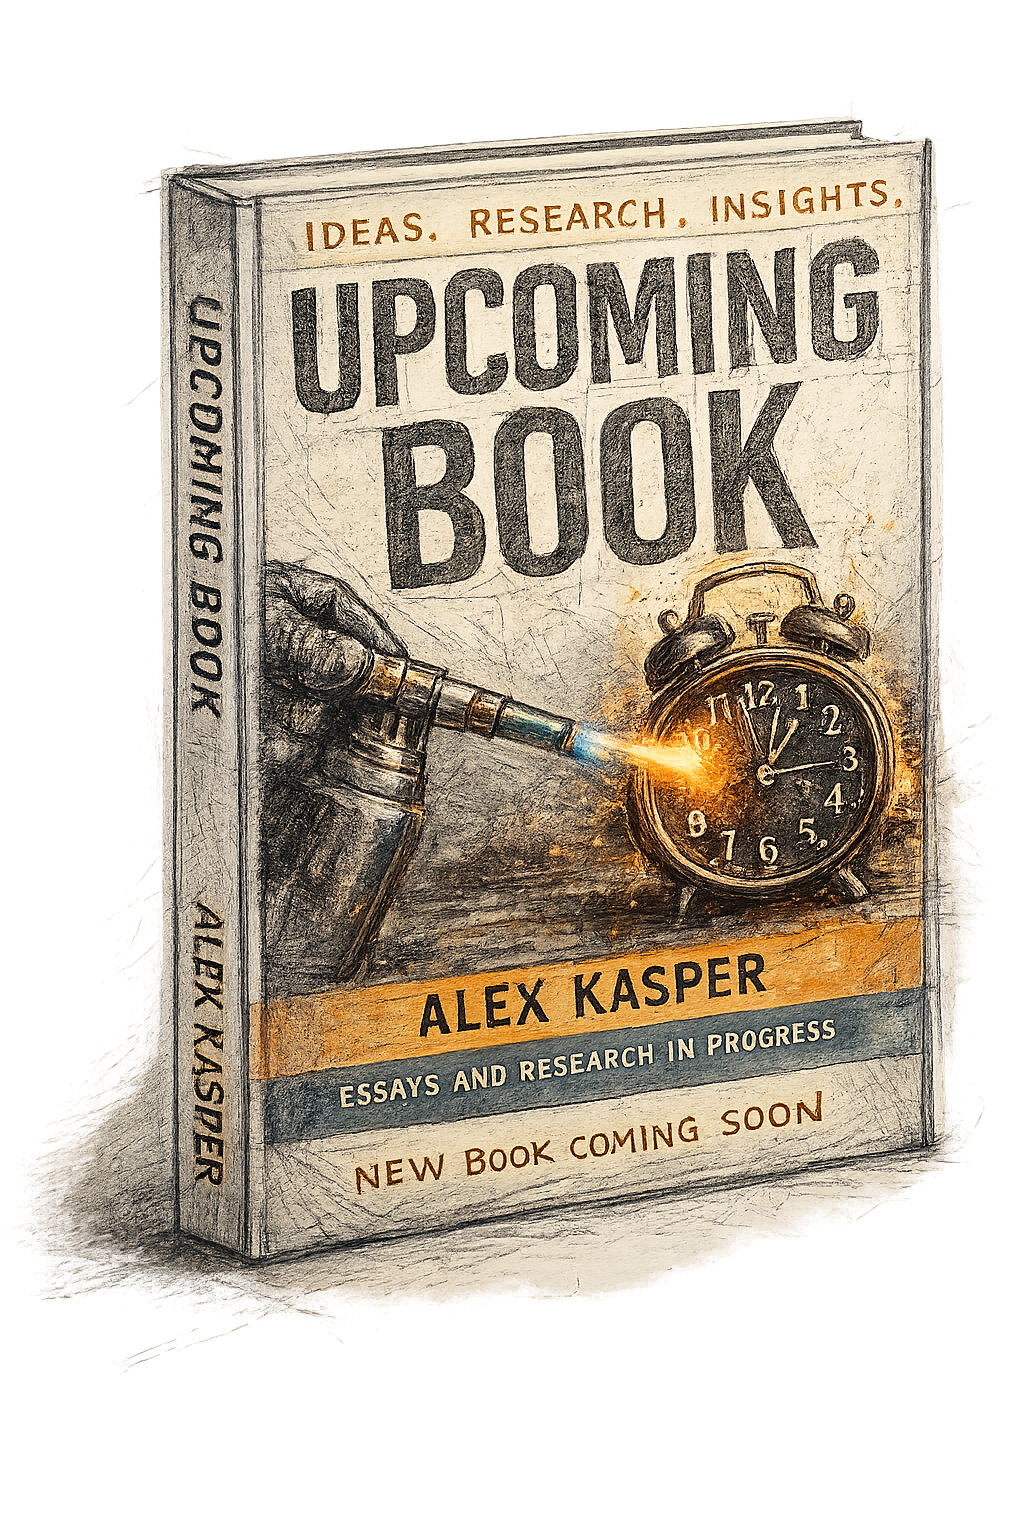
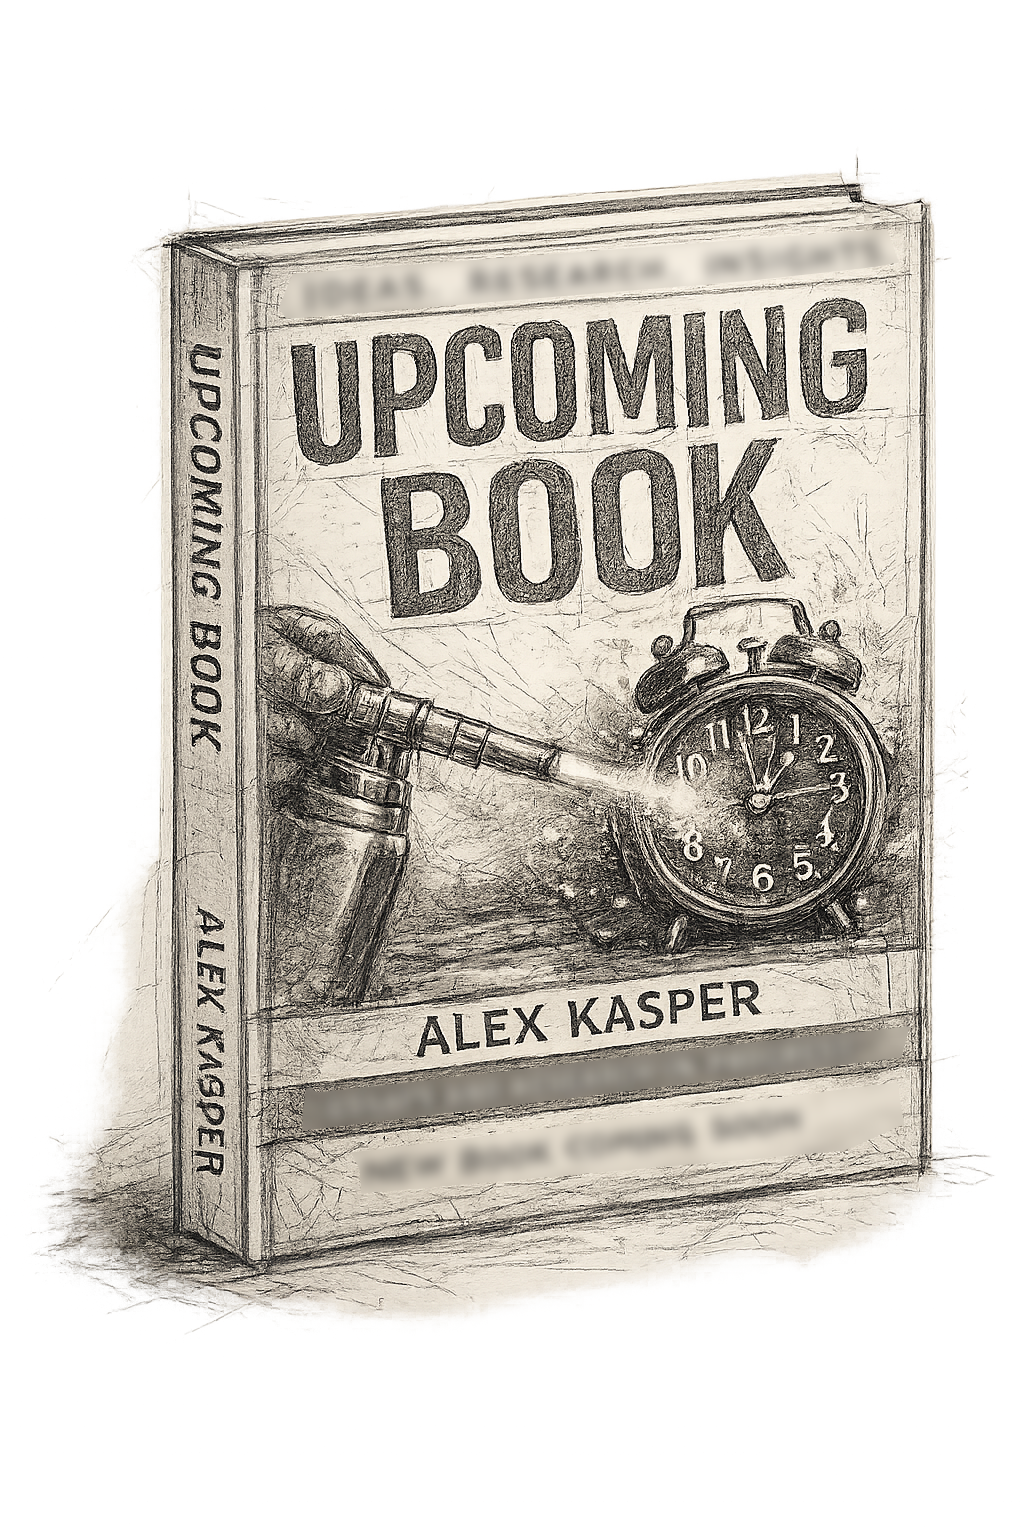
copyedit

diff --git a/content/about/index.md b/content/about/index.md
@@ -69,11 +69,11 @@ faq_groups:
         answer: "The phrase comes from a 2005 Wired profile of Kasper and Mitnick. Kasper was part of the same hacking circle as Mitnick, as a teenager, but unlike Mitnick and others, he was never charged and has no criminal record."
 ---
 
-Alex Kasper is a deception researcher and former hacker who features in Kevin Mitnick's memoir *Ghost in the Wires.* As a teenager in Los Angeles he ran in the same hacker and phone-phreak circle, breaking into phone, cellular, and commercial networks to satisfy curiosity, not for money. The group had unfettered access to phone company systems and even turned their skills on the security researchers hunting them, yet, unlike some, Kasper was never arrested.
+Alex Kasper is a deception researcher and former hacker who features in Kevin Mitnick's memoir *Ghost in the Wires.* As a teenager in Los Angeles he ran in the same hacker and phone-phreak circle, breaking into phone, cellular, and commercial networks to satisfy curiosity, not for money. The group had unfettered access to phone company systems and even turned their skills on the security researchers hunting them, yet Kasper was never arrested.
 
 He spent the 1990s producing the award-winning **3DO** game *Return Fire* and the **USC** short *Eyeball Eddie*, Martin Starr's first lead role. On the **Miramax** biopic of Mitnick, *Takedown*, he did more than advise: he talked his way onto the production, befriended the producers, and got script changes for a more sympathetic portrayal of his friend, social-engineering the film about a social engineer.
 
-In 1999 Kasper co-founded **Nexspace**, an early coworking space where Mitnick, then barred from touching a computer under the terms of his release, wrote *The Art of Deception* with Kasper handling the work he was legally forbidden to do. In 2002 the two founded **Defensive Thinking** and built *CSEPS*, the world's first social engineering prevention certification, training clients that ranged from corporations and banks to the **U.S. Air Force** and **Marines**.
+In 1999 Kasper co-founded **Nexspace**, an early coworking space where newly released Mitnick, then barred from touching a computer under the terms of his release, wrote *The Art of Deception* with Kasper handling the work Mitnick was legally forbidden to do. In 2002 the two founded **Defensive Thinking** and built *CSEPS*, the world's first social engineering prevention certification, training clients that ranged from corporations and banks to the **U.S. Air Force** and **Marines**.
 
 Kasper spent the next two decades building document and authentication systems across the legal and food industries, and lived in Berlin before settling in Montreal.
 

diff --git a/content/projects/p000007/index.md b/content/projects/p000007/index.md
@@ -5,7 +5,7 @@ title: "Kevin Mitnick Archive"
 slug: "kevin-mitnick-archive"
 
 category: person
-status: archive
+status: in-progress
 
 summary: "Hacker, Computer security consultant, author, and longtime friend"
 
@@ -21,12 +21,14 @@ tags:
 related:
   - t000002   # Defensive Thinking
   - t000003   # Lewis De Payne
+
 ---
 
-Kevin Mitnick (1963–2023) was an American computer security consultant, author, and one of the best-known hackers of the 1980s and 1990s.
+Kevin Mitnick (1963–2023) was an American computer security consultant, author, and one of the best-known hackers of the 1980s and 1990s. He was also my best friend.
 
-Alex Kasper met Mitnick during the Los Angeles hacker community of the late 1980s. The two later founded Defensive Thinking, Inc., presented together at conferences, and collaborated on numerous security awareness projects.
+I met Mitnick in the Los Angeles hacker community of the late 1980s. We later founded **Defensive Thinking**, wrote and taught the first social engineering prevention certification, and collaborated on numerous penetration testing and security awareness projects.
 
-This page serves as a central reference for material related to Kevin Mitnick throughout the site.
+This page is a central reference for published material related to Kevin Mitnick, and I'm still adding to it. If you have something you'd like to include, please [get in touch](/contact). If you'd like to know about any updates, please [join the mailing list](/mailing-list).
+
 
 {{< related-articles "kevin-mitnick-archive" >}}
